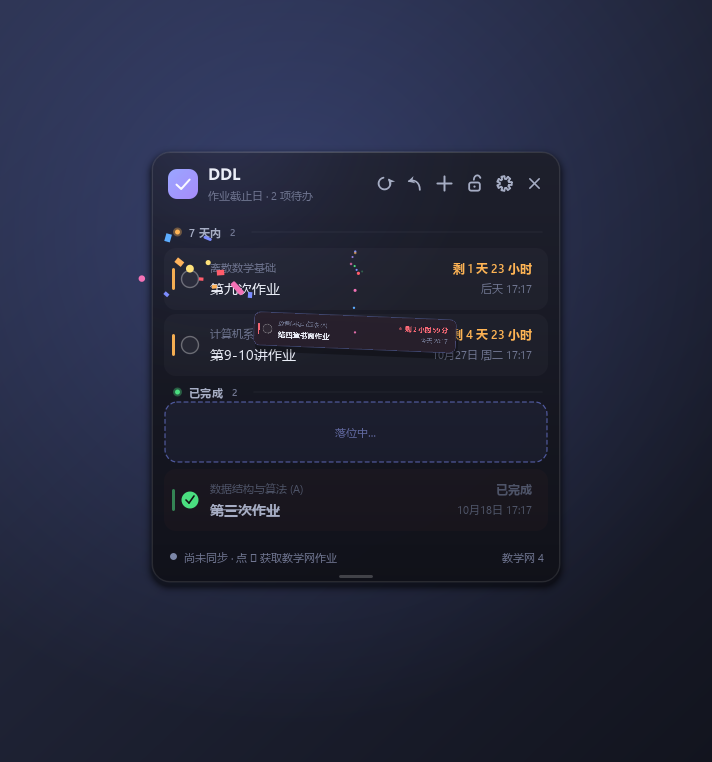
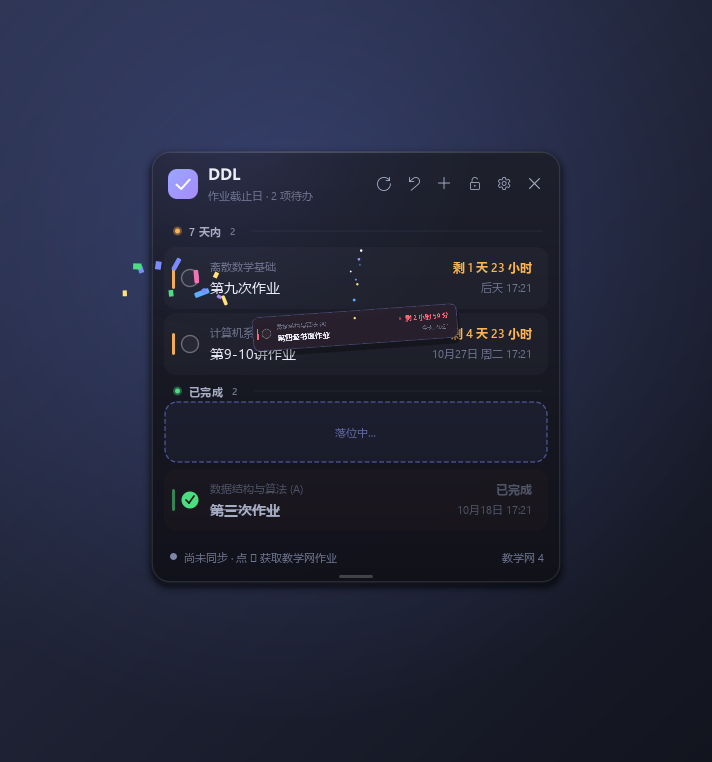
fix: Windows 上改用系统图标字形
- 新增 icon_render 后端：Windows 有 Segoe Fluent Icons 就用字形（和最初一致），
  macOS 或缺字体时回退到 vector_icons 的矢量版本
- 图标尺寸按后端补偿 1px（字形与矢量的视觉重量不同）
- 空状态的对勾、简报警告图标恢复原来的 21 / 19px
- 截图全部按字形版本重新生成

diff --git a/ddlwidget/icon_render.py b/ddlwidget/icon_render.py
@@ -1,0 +1,72 @@
+"""图标后端：Windows 用系统字形，其它平台用矢量。
+
+Windows 上的 Segoe Fluent Icons 是微软专门做过光学微调的，小尺寸下比手绘矢量更精神，
+所以默认沿用系统字形；macOS 没有这套字体，自动回退到 vector_icons 里手绘的那套。
+"""
+
+from __future__ import annotations
+
+import sys
+
+from PySide6.QtCore import QRectF, Qt
+from PySide6.QtGui import QColor, QFontDatabase, QPainter
+
+from . import theme
+from . import vector_icons
+
+_glyph_checked = False
+_glyph_ok = False
+
+
+def glyph_available() -> bool:
+    global _glyph_checked, _glyph_ok
+    if _glyph_checked:
+        return _glyph_ok
+    _glyph_checked = True
+    if not sys.platform.startswith("win"):
+        _glyph_ok = False
+        return _glyph_ok
+    try:
+        _glyph_ok = theme.ICON_FAMILY in QFontDatabase.families()
+    except Exception:  # noqa: BLE001
+        _glyph_ok = False
+    return _glyph_ok
+
+
+def icon_px(size: int) -> int:
+    """字形与矢量在视觉重量上差 1px，按后端补偿。"""
+    return size if glyph_available() else size + 1
+
+
+def draw_icon(
+    painter: QPainter,
+    name: str,
+    rect: QRectF,
+    color: QColor,
+    stroke: float = 2.2,
+    rotation: float = 0.0,
+) -> None:
+    if glyph_available():
+        _draw_glyph(painter, name, rect, color, rotation)
+        return
+    vector_icons.draw_icon(painter, name, rect, color, stroke, rotation)
+
+
+def _draw_glyph(
+    painter: QPainter, name: str, rect: QRectF, color: QColor, rotation: float
+) -> None:
+    glyph = theme.ICONS.get(name)
+    if not glyph:
+        vector_icons.draw_icon(painter, name, rect, color, 2.2, rotation)
+        return
+    painter.save()
+    painter.setRenderHint(QPainter.RenderHint.TextAntialiasing, True)
+    if abs(rotation) > 0.01:
+        center = rect.center()
+        painter.translate(center)
+        painter.rotate(rotation)
+        painter.translate(-center)
+    painter.setFont(theme.icon_font(rect.height()))
+    painter.setPen(color)
+    painter.drawText(rect, Qt.AlignmentFlag.AlignCenter, glyph)
+    painter.restore()

diff --git a/ddlwidget/main_window.py b/ddlwidget/main_window.py
@@ -51,6 +51,7 @@ from PySide6.QtWidgets import (
 from . import theme, sysutil
 from . import tips as tips_ref
 from .fx import FxOverlay, solid_card
+from .icon_render import icon_px
 from .dialogs import EditorDialog, SettingsDialog
 from .models import DDL, GROUP_COLOR, GROUP_LABEL, group_items
 from .theme import font, rgba
@@ -334,20 +335,20 @@ class MainWindow(QWidget):
         buttons.setContentsMargins(0, 0, 0, 0)
         buttons.setSpacing(3)
 
-        self._btn_sync = IconButton("refresh", 27, 15, "立即同步教学网")
+        self._btn_sync = IconButton("refresh", 27, icon_px(14), "立即同步教学网")
         self._btn_sync.clicked.connect(self.sync_requested.emit)
         self._btn_reset = IconButton(
-            "undo", 27, 15, "把教学网上未提交的作业全部恢复为待办（会解除手动勾选）"
+            "undo", 27, icon_px(14), "把教学网上未提交的作业全部恢复为待办（会解除手动勾选）"
         )
         self._btn_reset.clicked.connect(self.reset_requested.emit)
-        self._btn_add = IconButton("add", 27, 16, "添加 DDL")
+        self._btn_add = IconButton("add", 27, icon_px(15), "添加 DDL")
         self._btn_add.clicked.connect(self.add_item)
-        self._btn_lock = IconButton("unlock", 27, 15, "锁定位置")
+        self._btn_lock = IconButton("unlock", 27, icon_px(13), "锁定位置")
         self._btn_lock.setCheckable(True)
         self._btn_lock.clicked.connect(self._toggle_lock)
-        self._btn_settings = IconButton("settings", 27, 15, "设置")
+        self._btn_settings = IconButton("settings", 27, icon_px(13), "设置")
         self._btn_settings.clicked.connect(self.open_settings)
-        self._btn_close = IconButton("close", 27, 13, "隐藏到托盘")
+        self._btn_close = IconButton("close", 27, icon_px(11), "隐藏到托盘")
         self._btn_close.clicked.connect(self._on_close_clicked)
 
         for btn in (

diff --git a/ddlwidget/theme.py b/ddlwidget/theme.py
@@ -35,6 +35,8 @@ SHADOW = QColor(0, 0, 0, 160)
 RADIUS = 18
 
 # --- 字体 -------------------------------------------------------------
+ICON_FAMILY = "Segoe Fluent Icons"
+
 import sys as _sys
 
 if _sys.platform == "darwin":
@@ -53,6 +55,42 @@ def font(size: int, weight: int = 400, letter_spacing: float = 0.0) -> QFont:
     if letter_spacing:
         f.setLetterSpacing(QFont.SpacingType.AbsoluteSpacing, letter_spacing)
     return f
+
+
+def icon_font(size: int) -> QFont:
+    f = QFont(ICON_FAMILY)
+    f.setPixelSize(max(8, int(size)))
+    f.setStyleStrategy(QFont.StyleStrategy.PreferAntialias)
+    return f
+
+
+# Segoe Fluent Icons / MDL2 码位
+ICONS = {
+    "add": "\ue710",
+    "refresh": "\ue72c",
+    "lock": "\ue72e",
+    "unlock": "\ue785",
+    "settings": "\ue713",
+    "close": "\ue8bb",
+    "pin": "\ue718",
+    "unpin": "\ue77a",
+    "edit": "\ue70f",
+    "delete": "\ue74d",
+    "check": "\ue73e",
+    "calendar": "\ue787",
+    "clock": "\ue823",
+    "warning": "\ue7ba",
+    "info": "\ue946",
+    "chevron_down": "\ue70d",
+    "chevron_up": "\ue70e",
+    "more": "\ue712",
+    "open": "\ue8e5",
+    "folder": "\ue8b7",
+    "drag": "\ue76f",
+    "sync": "\ue895",
+    "sun": "\ue706",
+    "undo": "\ue7a7",
+}
 
 
 def rgba(hex_color: str, alpha: float) -> QColor:

diff --git a/ddlwidget/widgets.py b/ddlwidget/widgets.py
@@ -20,7 +20,7 @@ from PySide6.QtWidgets import QAbstractButton, QSizePolicy, QWidget
 from . import theme, tips
 from .models import DDL, GROUP_COLOR, GROUP_LABEL
 from .theme import font, rgba
-from .vector_icons import draw_icon
+from .icon_render import draw_icon
 
 ROW_HEIGHT = 64
 RIGHT_BLOCK = 116
@@ -492,10 +492,16 @@ class EmptyState(QWidget):
         painter.setPen(Qt.PenStyle.NoPen)
         painter.setBrush(QColor(255, 255, 255, 10))
         painter.drawEllipse(circle)
+        icon_size = 21.0
         draw_icon(
             painter,
             "check",
-            circle.adjusted(14, 14, -14, -14),
+            QRectF(
+                circle.center().x() - icon_size / 2,
+                circle.center().y() - icon_size / 2,
+                icon_size,
+                icon_size,
+            ),
             rgba(theme.ACCENT, 0.9),
             stroke=2.0,
         )

diff --git a/ddlwidget/briefing.py b/ddlwidget/briefing.py
@@ -12,7 +12,7 @@ from . import theme
 from .dialogs import SHADOW, GlassDialog
 from .models import DDL, WEEKDAY_CN
 from .theme import font
-from .vector_icons import draw_icon
+from .icon_render import draw_icon
 
 
 def _day_label(target: date, today: date) -> str:
@@ -108,10 +108,11 @@ class _Banner(QWidget):
         painter.setBrush(grad)
         painter.drawRoundedRect(rect.adjusted(0.5, 0.5, -0.5, -0.5), 12, 12)
 
+        icon_size = 19.0
         draw_icon(
             painter,
             "warning",
-            QRectF(16, self.height() / 2 - 10, 20, 20),
+            QRectF(16, self.height() / 2 - icon_size / 2, icon_size, icon_size),
             QColor(255, 255, 255, 238),
             stroke=2.0,
         )

diff --git a/README.md b/README.md
@@ -234,7 +234,8 @@ ddlwidget/
   db.py                 SQLite 持久层与合并规则
   sync.py               pku3b 调用、输出解析、入库
   sysutil.py            平台层：自启（注册表 / LaunchAgent）、层级、单实例、通知
-  vector_icons.py       矢量图标（不依赖系统字体，Windows / macOS 通用）
+  icon_render.py        图标后端：Windows 用 Segoe Fluent Icons 字形，其它平台回退到矢量
+  vector_icons.py       矢量图标（macOS / 缺少字形字体时使用）
   paths.py / settings.py / icons.py
 docs/screenshots/       README 用的截图
 dev/                    开发与自检脚本
